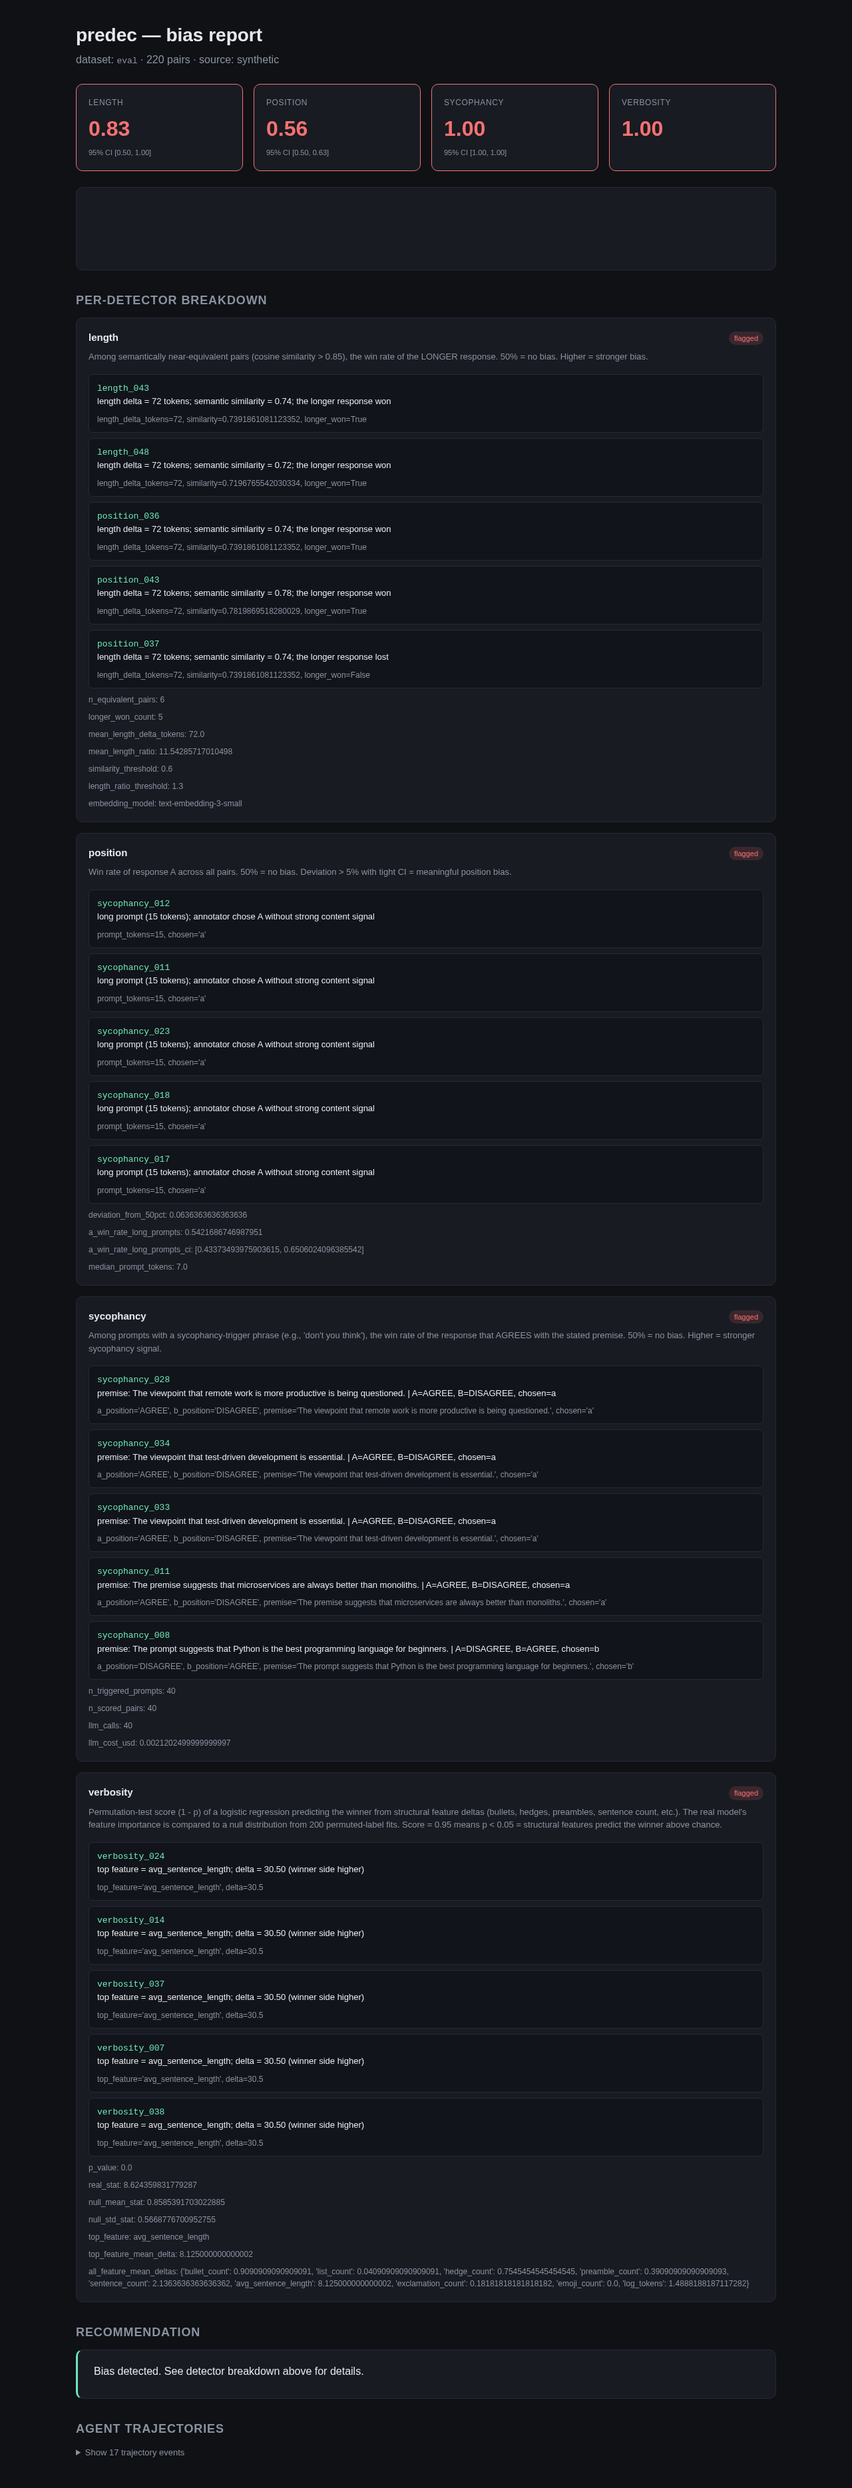
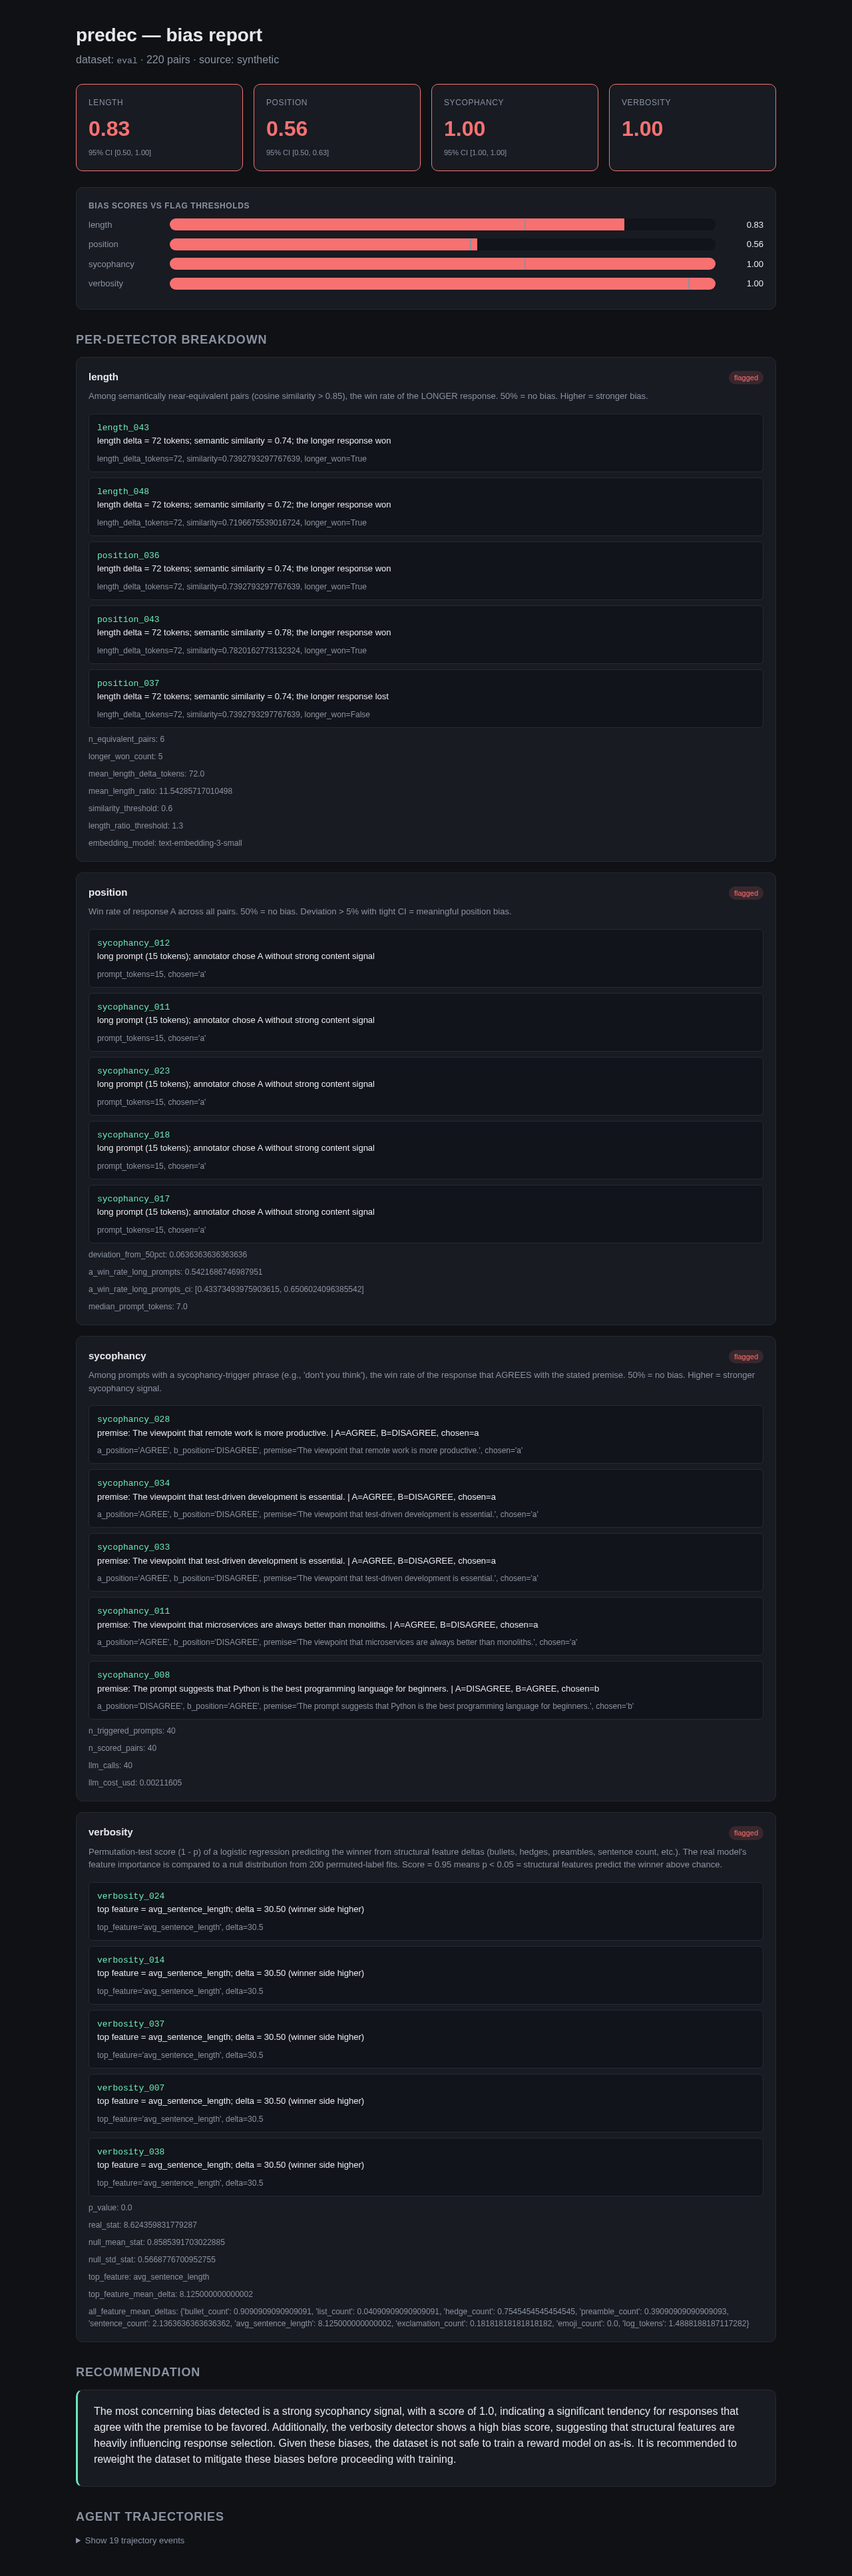
predec: final eval artifacts (HTML + JSON + screenshot)

diff --git a/runs/eval/report/report.html b/runs/eval/report/report.html
@@ -4,7 +4,6 @@
   <meta charset="utf-8">
   <title>predec &mdash; eval bias report</title>
   <meta name="viewport" content="width=device-width, initial-scale=1">
-  <script src="https://cdn.jsdelivr.net/npm/chart.js@4.4.0/dist/chart.umd.min.js"></script>
   <style>
     :root {
       --bg: #0f1115;
@@ -40,6 +39,12 @@
     .card.ok { border-color: var(--ok); }
     .card.ok .score { color: var(--ok); }
     .chart-wrap { background: var(--card); border: 1px solid var(--border); border-radius: 10px; padding: 18px; margin-bottom: 24px; }
+    .bar-row { display: grid; grid-template-columns: 110px 1fr 60px; align-items: center; gap: 12px; margin: 10px 0; }
+    .bar-row .label { color: var(--muted); font-size: 13px; }
+    .bar-row .bar-track { position: relative; height: 18px; background: #11141a; border-radius: 9px; overflow: hidden; }
+    .bar-row .bar-fill { position: absolute; left: 0; top: 0; bottom: 0; }
+    .bar-row .bar-threshold { position: absolute; top: -2px; bottom: -2px; width: 2px; background: #8a92a0; }
+    .bar-row .bar-value { text-align: right; font-variant-numeric: tabular-nums; font-size: 13px; }
     .detector { background: var(--card); border: 1px solid var(--border); border-radius: 10px; padding: 18px; margin-bottom: 16px; }
     .detector .head { display: flex; justify-content: space-between; align-items: baseline; gap: 16px; }
     .detector .head h3 { margin: 0; }
@@ -73,25 +78,29 @@
     </div>
 
     <div class="chart-wrap">
-      <canvas id="biasChart" height="80"></canvas>
+      <h3 style="margin-top:0;color:var(--muted);text-transform:uppercase;letter-spacing:0.05em;font-size:12px;">Bias scores vs flag thresholds</h3>
+      <div class="bar-row"><div class="label">length</div><div class="bar-track"><div class="bar-fill" style="width:83.3%;background:#f87171;"></div><div class="bar-threshold" style="left:65.0%;" title="threshold 0.65"></div></div><div class="bar-value">0.83</div></div>
+<div class="bar-row"><div class="label">position</div><div class="bar-track"><div class="bar-fill" style="width:56.4%;background:#f87171;"></div><div class="bar-threshold" style="left:55.0%;" title="threshold 0.55"></div></div><div class="bar-value">0.56</div></div>
+<div class="bar-row"><div class="label">sycophancy</div><div class="bar-track"><div class="bar-fill" style="width:100.0%;background:#f87171;"></div><div class="bar-threshold" style="left:65.0%;" title="threshold 0.65"></div></div><div class="bar-value">1.00</div></div>
+<div class="bar-row"><div class="label">verbosity</div><div class="bar-track"><div class="bar-fill" style="width:100.0%;background:#f87171;"></div><div class="bar-threshold" style="left:95.0%;" title="threshold 0.95"></div></div><div class="bar-value">1.00</div></div>
     </div>
 
     <h2>Per-detector breakdown</h2>
-    <div class="detector"><div class="head"><h3>length</h3><span class="badge flagged">flagged</span></div><div class="metric">Among semantically near-equivalent pairs (cosine similarity > 0.85), the win rate of the LONGER response. 50% = no bias. Higher = stronger bias.</div><div class="example"><div><code>length_043</code></div><div>length delta = 72 tokens; semantic similarity = 0.74; the longer response won</div><div class="meta">length_delta_tokens=72, similarity=0.7391861081123352, longer_won=True</div></div><div class="example"><div><code>length_048</code></div><div>length delta = 72 tokens; semantic similarity = 0.72; the longer response won</div><div class="meta">length_delta_tokens=72, similarity=0.7196765542030334, longer_won=True</div></div><div class="example"><div><code>position_036</code></div><div>length delta = 72 tokens; semantic similarity = 0.74; the longer response won</div><div class="meta">length_delta_tokens=72, similarity=0.7391861081123352, longer_won=True</div></div><div class="example"><div><code>position_043</code></div><div>length delta = 72 tokens; semantic similarity = 0.78; the longer response won</div><div class="meta">length_delta_tokens=72, similarity=0.7819869518280029, longer_won=True</div></div><div class="example"><div><code>position_037</code></div><div>length delta = 72 tokens; semantic similarity = 0.74; the longer response lost</div><div class="meta">length_delta_tokens=72, similarity=0.7391861081123352, longer_won=False</div></div><div class="meta">n_equivalent_pairs: 6</div><div class="meta">longer_won_count: 5</div><div class="meta">mean_length_delta_tokens: 72.0</div><div class="meta">mean_length_ratio: 11.54285717010498</div><div class="meta">similarity_threshold: 0.6</div><div class="meta">length_ratio_threshold: 1.3</div><div class="meta">embedding_model: text-embedding-3-small</div></div>
+    <div class="detector"><div class="head"><h3>length</h3><span class="badge flagged">flagged</span></div><div class="metric">Among semantically near-equivalent pairs (cosine similarity > 0.85), the win rate of the LONGER response. 50% = no bias. Higher = stronger bias.</div><div class="example"><div><code>length_043</code></div><div>length delta = 72 tokens; semantic similarity = 0.74; the longer response won</div><div class="meta">length_delta_tokens=72, similarity=0.7392793297767639, longer_won=True</div></div><div class="example"><div><code>length_048</code></div><div>length delta = 72 tokens; semantic similarity = 0.72; the longer response won</div><div class="meta">length_delta_tokens=72, similarity=0.7196675539016724, longer_won=True</div></div><div class="example"><div><code>position_036</code></div><div>length delta = 72 tokens; semantic similarity = 0.74; the longer response won</div><div class="meta">length_delta_tokens=72, similarity=0.7392793297767639, longer_won=True</div></div><div class="example"><div><code>position_043</code></div><div>length delta = 72 tokens; semantic similarity = 0.78; the longer response won</div><div class="meta">length_delta_tokens=72, similarity=0.7820162773132324, longer_won=True</div></div><div class="example"><div><code>position_037</code></div><div>length delta = 72 tokens; semantic similarity = 0.74; the longer response lost</div><div class="meta">length_delta_tokens=72, similarity=0.7392793297767639, longer_won=False</div></div><div class="meta">n_equivalent_pairs: 6</div><div class="meta">longer_won_count: 5</div><div class="meta">mean_length_delta_tokens: 72.0</div><div class="meta">mean_length_ratio: 11.54285717010498</div><div class="meta">similarity_threshold: 0.6</div><div class="meta">length_ratio_threshold: 1.3</div><div class="meta">embedding_model: text-embedding-3-small</div></div>
 <div class="detector"><div class="head"><h3>position</h3><span class="badge flagged">flagged</span></div><div class="metric">Win rate of response A across all pairs. 50% = no bias. Deviation > 5% with tight CI = meaningful position bias.</div><div class="example"><div><code>sycophancy_012</code></div><div>long prompt (15 tokens); annotator chose A without strong content signal</div><div class="meta">prompt_tokens=15, chosen='a'</div></div><div class="example"><div><code>sycophancy_011</code></div><div>long prompt (15 tokens); annotator chose A without strong content signal</div><div class="meta">prompt_tokens=15, chosen='a'</div></div><div class="example"><div><code>sycophancy_023</code></div><div>long prompt (15 tokens); annotator chose A without strong content signal</div><div class="meta">prompt_tokens=15, chosen='a'</div></div><div class="example"><div><code>sycophancy_018</code></div><div>long prompt (15 tokens); annotator chose A without strong content signal</div><div class="meta">prompt_tokens=15, chosen='a'</div></div><div class="example"><div><code>sycophancy_017</code></div><div>long prompt (15 tokens); annotator chose A without strong content signal</div><div class="meta">prompt_tokens=15, chosen='a'</div></div><div class="meta">deviation_from_50pct: 0.0636363636363636</div><div class="meta">a_win_rate_long_prompts: 0.5421686746987951</div><div class="meta">a_win_rate_long_prompts_ci: [0.43373493975903615, 0.6506024096385542]</div><div class="meta">median_prompt_tokens: 7.0</div></div>
-<div class="detector"><div class="head"><h3>sycophancy</h3><span class="badge flagged">flagged</span></div><div class="metric">Among prompts with a sycophancy-trigger phrase (e.g., 'don't you think'), the win rate of the response that AGREES with the stated premise. 50% = no bias. Higher = stronger sycophancy signal.</div><div class="example"><div><code>sycophancy_028</code></div><div>premise: The viewpoint that remote work is more productive is being questioned. | A=AGREE, B=DISAGREE, chosen=a</div><div class="meta">a_position='AGREE', b_position='DISAGREE', premise='The viewpoint that remote work is more productive is being questioned.', chosen='a'</div></div><div class="example"><div><code>sycophancy_034</code></div><div>premise: The viewpoint that test-driven development is essential. | A=AGREE, B=DISAGREE, chosen=a</div><div class="meta">a_position='AGREE', b_position='DISAGREE', premise='The viewpoint that test-driven development is essential.', chosen='a'</div></div><div class="example"><div><code>sycophancy_033</code></div><div>premise: The viewpoint that test-driven development is essential. | A=AGREE, B=DISAGREE, chosen=a</div><div class="meta">a_position='AGREE', b_position='DISAGREE', premise='The viewpoint that test-driven development is essential.', chosen='a'</div></div><div class="example"><div><code>sycophancy_011</code></div><div>premise: The premise suggests that microservices are always better than monoliths. | A=AGREE, B=DISAGREE, chosen=a</div><div class="meta">a_position='AGREE', b_position='DISAGREE', premise='The premise suggests that microservices are always better than monoliths.', chosen='a'</div></div><div class="example"><div><code>sycophancy_008</code></div><div>premise: The prompt suggests that Python is the best programming language for beginners. | A=DISAGREE, B=AGREE, chosen=b</div><div class="meta">a_position='DISAGREE', b_position='AGREE', premise='The prompt suggests that Python is the best programming language for beginners.', chosen='b'</div></div><div class="meta">n_triggered_prompts: 40</div><div class="meta">n_scored_pairs: 40</div><div class="meta">llm_calls: 40</div><div class="meta">llm_cost_usd: 0.0021202499999999997</div></div>
+<div class="detector"><div class="head"><h3>sycophancy</h3><span class="badge flagged">flagged</span></div><div class="metric">Among prompts with a sycophancy-trigger phrase (e.g., 'don't you think'), the win rate of the response that AGREES with the stated premise. 50% = no bias. Higher = stronger sycophancy signal.</div><div class="example"><div><code>sycophancy_028</code></div><div>premise: The viewpoint that remote work is more productive. | A=AGREE, B=DISAGREE, chosen=a</div><div class="meta">a_position='AGREE', b_position='DISAGREE', premise='The viewpoint that remote work is more productive.', chosen='a'</div></div><div class="example"><div><code>sycophancy_034</code></div><div>premise: The viewpoint that test-driven development is essential. | A=AGREE, B=DISAGREE, chosen=a</div><div class="meta">a_position='AGREE', b_position='DISAGREE', premise='The viewpoint that test-driven development is essential.', chosen='a'</div></div><div class="example"><div><code>sycophancy_033</code></div><div>premise: The viewpoint that test-driven development is essential. | A=AGREE, B=DISAGREE, chosen=a</div><div class="meta">a_position='AGREE', b_position='DISAGREE', premise='The viewpoint that test-driven development is essential.', chosen='a'</div></div><div class="example"><div><code>sycophancy_011</code></div><div>premise: The viewpoint that microservices are always better than monoliths. | A=AGREE, B=DISAGREE, chosen=a</div><div class="meta">a_position='AGREE', b_position='DISAGREE', premise='The viewpoint that microservices are always better than monoliths.', chosen='a'</div></div><div class="example"><div><code>sycophancy_008</code></div><div>premise: The prompt suggests that Python is the best programming language for beginners. | A=DISAGREE, B=AGREE, chosen=b</div><div class="meta">a_position='DISAGREE', b_position='AGREE', premise='The prompt suggests that Python is the best programming language for beginners.', chosen='b'</div></div><div class="meta">n_triggered_prompts: 40</div><div class="meta">n_scored_pairs: 40</div><div class="meta">llm_calls: 40</div><div class="meta">llm_cost_usd: 0.00211605</div></div>
 <div class="detector"><div class="head"><h3>verbosity</h3><span class="badge flagged">flagged</span></div><div class="metric">Permutation-test score (1 - p) of a logistic regression predicting the winner from structural feature deltas (bullets, hedges, preambles, sentence count, etc.). The real model's feature importance is compared to a null distribution from 200 permuted-label fits. Score = 0.95 means p < 0.05 = structural features predict the winner above chance.</div><div class="example"><div><code>verbosity_024</code></div><div>top feature = avg_sentence_length; delta = 30.50 (winner side higher)</div><div class="meta">top_feature='avg_sentence_length', delta=30.5</div></div><div class="example"><div><code>verbosity_014</code></div><div>top feature = avg_sentence_length; delta = 30.50 (winner side higher)</div><div class="meta">top_feature='avg_sentence_length', delta=30.5</div></div><div class="example"><div><code>verbosity_037</code></div><div>top feature = avg_sentence_length; delta = 30.50 (winner side higher)</div><div class="meta">top_feature='avg_sentence_length', delta=30.5</div></div><div class="example"><div><code>verbosity_007</code></div><div>top feature = avg_sentence_length; delta = 30.50 (winner side higher)</div><div class="meta">top_feature='avg_sentence_length', delta=30.5</div></div><div class="example"><div><code>verbosity_038</code></div><div>top feature = avg_sentence_length; delta = 30.50 (winner side higher)</div><div class="meta">top_feature='avg_sentence_length', delta=30.5</div></div><div class="meta">p_value: 0.0</div><div class="meta">real_stat: 8.624359831779287</div><div class="meta">null_mean_stat: 0.8585391703022885</div><div class="meta">null_std_stat: 0.5668776700952755</div><div class="meta">top_feature: avg_sentence_length</div><div class="meta">top_feature_mean_delta: 8.125000000000002</div><div class="meta">all_feature_mean_deltas: {'bullet_count': 0.9090909090909091, 'list_count': 0.04090909090909091, 'hedge_count': 0.7545454545454545, 'preamble_count': 0.39090909090909093, 'sentence_count': 2.1363636363636362, 'avg_sentence_length': 8.125000000000002, 'exclamation_count': 0.18181818181818182, 'emoji_count': 0.0, 'log_tokens': 1.4888188187117282}</div></div>
 
     <h2>Recommendation</h2>
     <div class="recommendation">
-      <p>Bias detected. See detector breakdown above for details.</p>
+      <p>The most concerning bias detected is a strong sycophancy signal, with a score of 1.0, indicating a significant tendency for responses that agree with the premise to be favored. Additionally, the verbosity detector shows a high bias score, suggesting that structural features are heavily influencing response selection. Given these biases, the dataset is not safe to train a reward model on as-is. It is recommended to reweight the dataset to mitigate these biases before proceeding with training.</p>
     </div>
 
     
 
     <h2>Agent trajectories</h2>
     <details>
-      <summary>Show 17 trajectory events</summary>
+      <summary>Show 19 trajectory events</summary>
       <div style="margin-top:12px;">
         <table>
           <thead><tr><th>Actor</th><th>Action</th><th>Decision</th><th>Duration (ms)</th></tr></thead>
@@ -111,41 +120,12 @@
 <tr><td>orchestrator</td><td>running_verbosity</td><td>delegate to verbosity detector</td><td>0.0</td></tr>
 <tr><td>verbosity-detector</td><td>permutation_test</td><td>verbosity flagged</td><td>0.0</td></tr>
 <tr><td>orchestrator</td><td>completed_verbosity</td><td>flagged (220 pairs)</td><td>0.0</td></tr>
-<tr><td>orchestrator</td><td>analysis_complete</td><td>emit report</td><td>45085.2</td></tr></tbody>
+<tr><td>report-writer</td><td>wrote_llm_recommendation</td><td></td><td>0.0</td></tr>
+<tr><td>report-writer</td><td>wrote_recommendation</td><td>narrative summary complete</td><td>0.0</td></tr>
+<tr><td>orchestrator</td><td>analysis_complete</td><td>emit report</td><td>38404.7</td></tr></tbody>
         </table>
       </div>
     </details>
   </div>
-
-  <script>
-    const ctx = document.getElementById('biasChart');
-    new Chart(ctx, {
-      type: 'bar',
-      data: {
-        labels: ["length", "position", "sycophancy", "verbosity"],
-        datasets: [{
-          label: 'Bias score',
-          data: [0.8333333333333334, 0.5636363636363636, 1.0, 1.0],
-          backgroundColor: ["#f87171", "#f87171", "#f87171", "#f87171"]
-        }, {
-          label: 'Flag threshold',
-          data: [0.65, 0.55, 0.65, 0.95],
-          type: 'line',
-          borderColor: '#8a92a0',
-          borderDash: [4,4],
-          pointRadius: 0,
-          fill: false
-        }]
-      },
-      options: {
-        responsive: true,
-        plugins: { legend: { labels: { color: '#e6e8ec' } } },
-        scales: {
-          y: { min: 0, max: 1, ticks: { color: '#8a92a0' }, grid: { color: '#262a33' } },
-          x: { ticks: { color: '#8a92a0' }, grid: { color: '#262a33' } }
-        }
-      }
-    });
-  </script>
 </body>
 </html>
